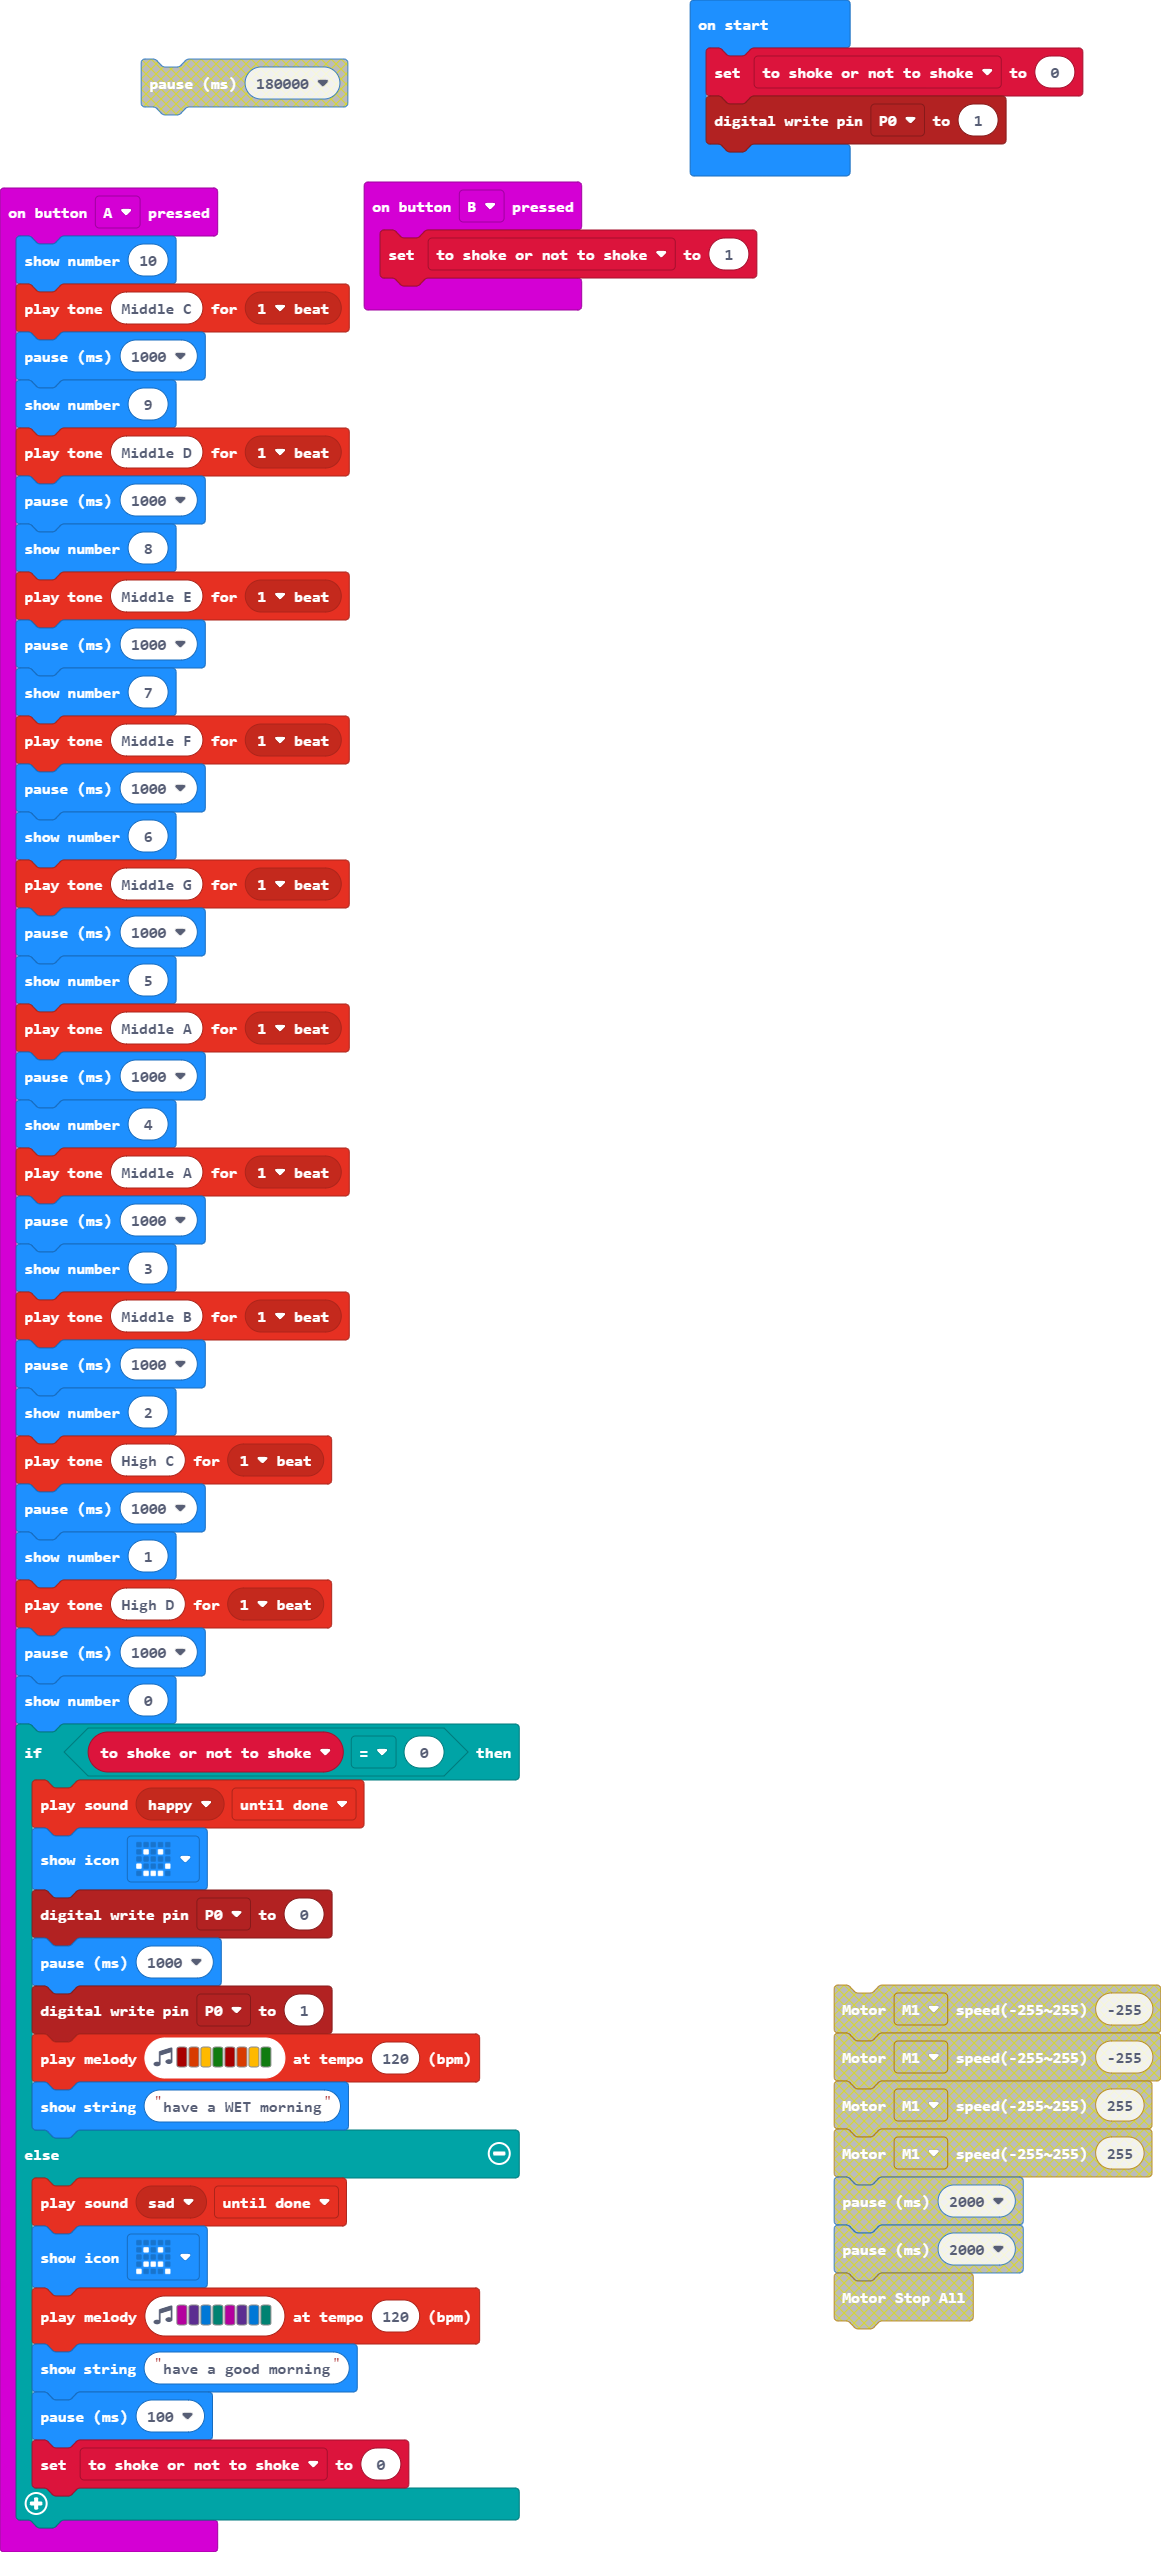
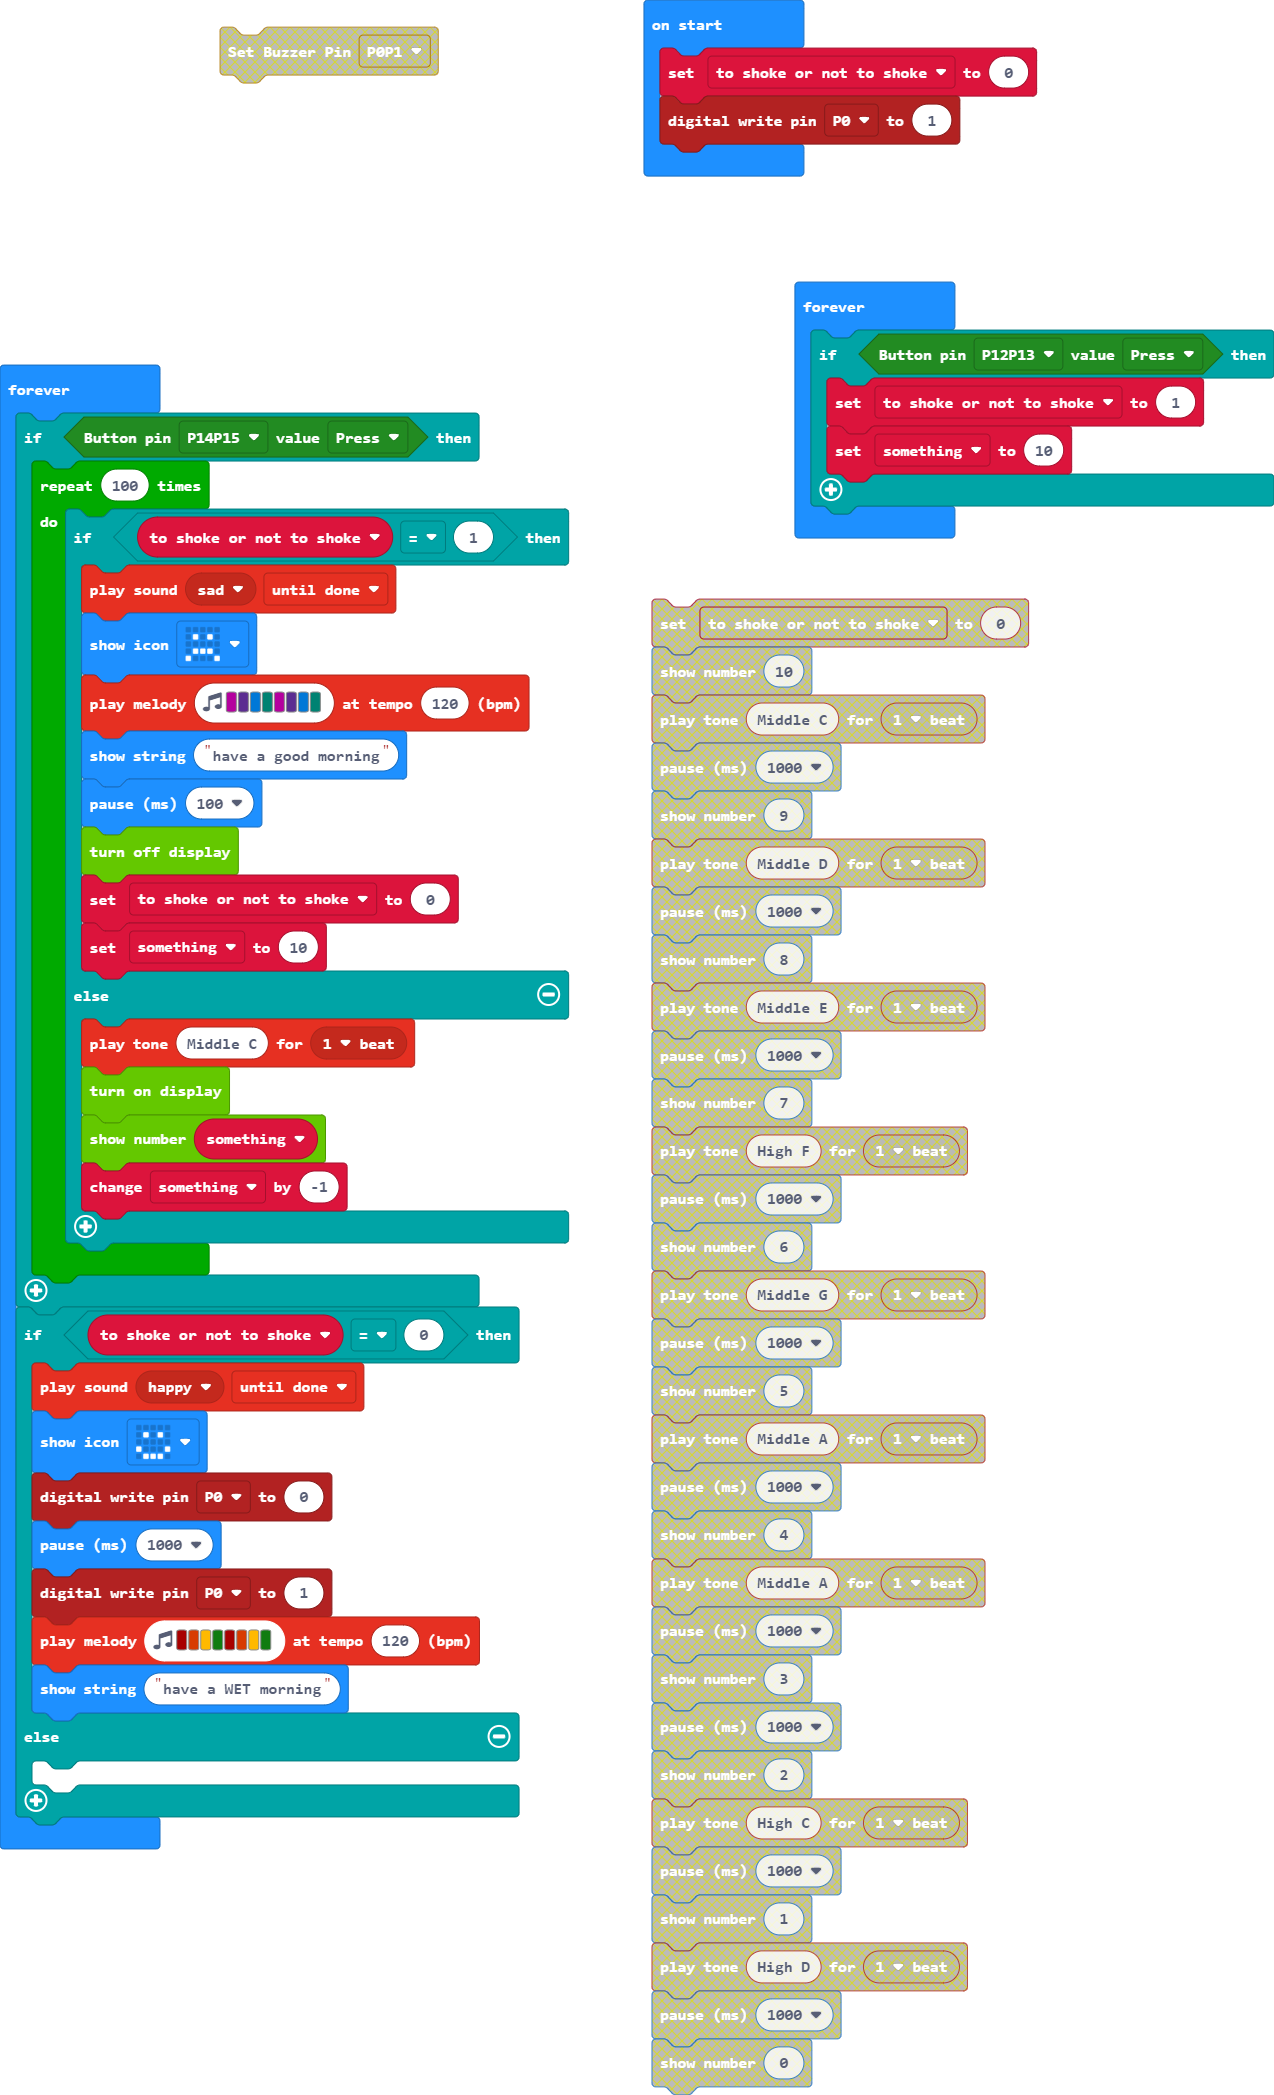
Update pxt.json, main.blocks, main.ts

diff --git a/main.ts b/main.ts
@@ -1,35 +1,32 @@
-input.onButtonPressed(Button.A, function () {
-    basic.showNumber(10)
-    music.playTone(262, music.beat(BeatFraction.Whole))
-    basic.pause(1000)
-    basic.showNumber(9)
-    music.playTone(294, music.beat(BeatFraction.Whole))
-    basic.pause(1000)
-    basic.showNumber(8)
-    music.playTone(330, music.beat(BeatFraction.Whole))
-    basic.pause(1000)
-    basic.showNumber(7)
-    music.playTone(349, music.beat(BeatFraction.Whole))
-    basic.pause(1000)
-    basic.showNumber(6)
-    music.playTone(392, music.beat(BeatFraction.Whole))
-    basic.pause(1000)
-    basic.showNumber(5)
-    music.playTone(440, music.beat(BeatFraction.Whole))
-    basic.pause(1000)
-    basic.showNumber(4)
-    music.playTone(440, music.beat(BeatFraction.Whole))
-    basic.pause(1000)
-    basic.showNumber(3)
-    music.playTone(494, music.beat(BeatFraction.Whole))
-    basic.pause(1000)
-    basic.showNumber(2)
-    music.playTone(523, music.beat(BeatFraction.Whole))
-    basic.pause(1000)
-    basic.showNumber(1)
-    music.playTone(587, music.beat(BeatFraction.Whole))
-    basic.pause(1000)
-    basic.showNumber(0)
+let something = 0
+let to_shoke_or_not_to_shoke = 0
+pins.digitalWritePin(DigitalPin.P0, 1)
+basic.forever(function () {
+    if (ModuleWorld_Digital.Button(ModuleWorld_Digital.mwDigitalNum.P12P13, ModuleWorld_Digital.enButton.Press)) {
+        to_shoke_or_not_to_shoke = 1
+        something = 10
+    }
+})
+basic.forever(function () {
+    if (ModuleWorld_Digital.Button(ModuleWorld_Digital.mwDigitalNum.P14P15, ModuleWorld_Digital.enButton.Press)) {
+        for (let index = 0; index < 100; index++) {
+            if (to_shoke_or_not_to_shoke == 1) {
+                music.playSoundEffect(music.builtinSoundEffect(soundExpression.sad), SoundExpressionPlayMode.UntilDone)
+                basic.showIcon(IconNames.Sad)
+                music.playMelody("C D E F C D E F ", 120)
+                basic.showString("have a good morning")
+                basic.pause(100)
+                TM1650.off()
+                to_shoke_or_not_to_shoke = 0
+                something = 10
+            } else {
+                music.playTone(262, music.beat(BeatFraction.Whole))
+                TM1650.on()
+                TM1650.showNumber(something)
+                something += -1
+            }
+        }
+    }
     if (to_shoke_or_not_to_shoke == 0) {
         music.playSoundEffect(music.builtinSoundEffect(soundExpression.happy), SoundExpressionPlayMode.UntilDone)
         basic.showIcon(IconNames.Happy)
@@ -39,17 +36,6 @@ input.onButtonPressed(Button.A, function () {
         music.playMelody("C5 B A G C5 B A G ", 120)
         basic.showString("have a WET morning")
     } else {
-        music.playSoundEffect(music.builtinSoundEffect(soundExpression.sad), SoundExpressionPlayMode.UntilDone)
-        basic.showIcon(IconNames.Sad)
-        music.playMelody("C D E F C D E F ", 120)
-        basic.showString("have a good morning")
-        basic.pause(100)
-        to_shoke_or_not_to_shoke = 0
+    	
     }
 })
-input.onButtonPressed(Button.B, function () {
-    to_shoke_or_not_to_shoke = 1
-})
-let to_shoke_or_not_to_shoke = 0
-to_shoke_or_not_to_shoke = 0
-pins.digitalWritePin(DigitalPin.P0, 1)
